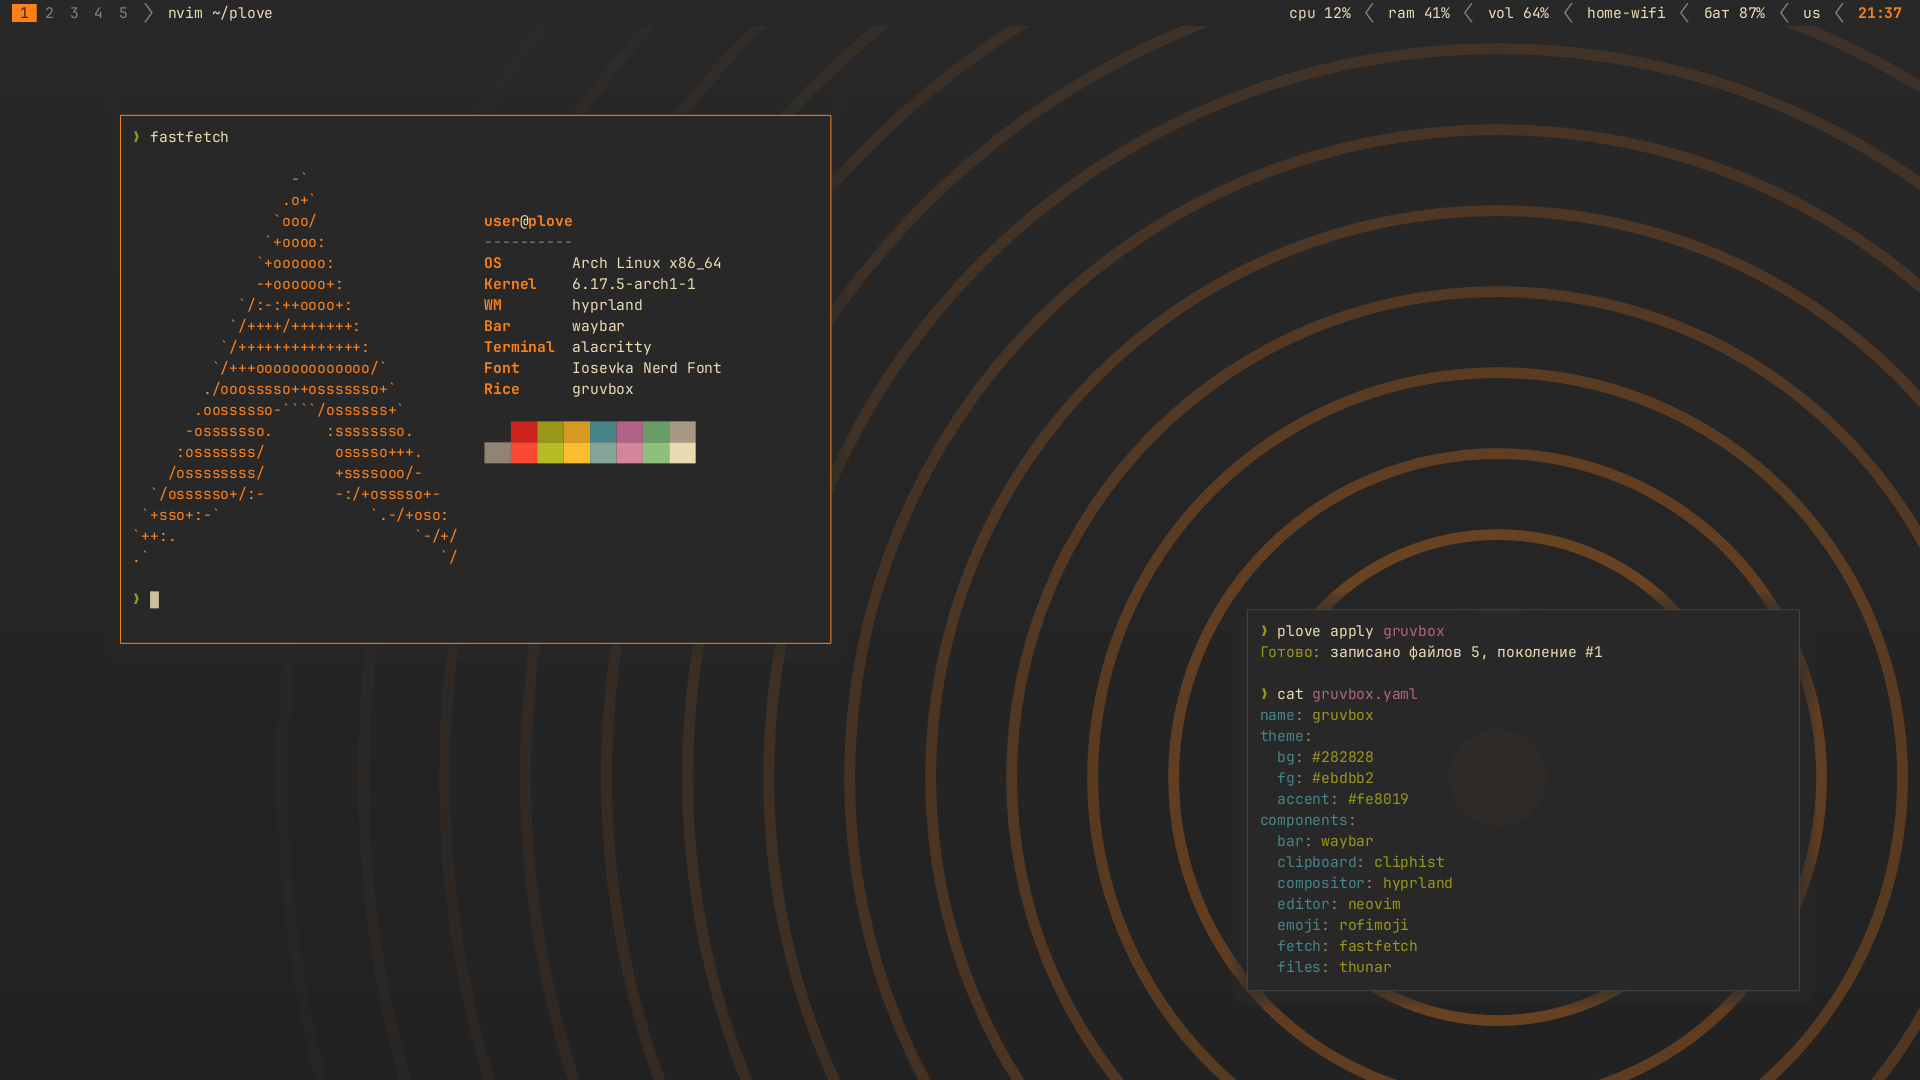
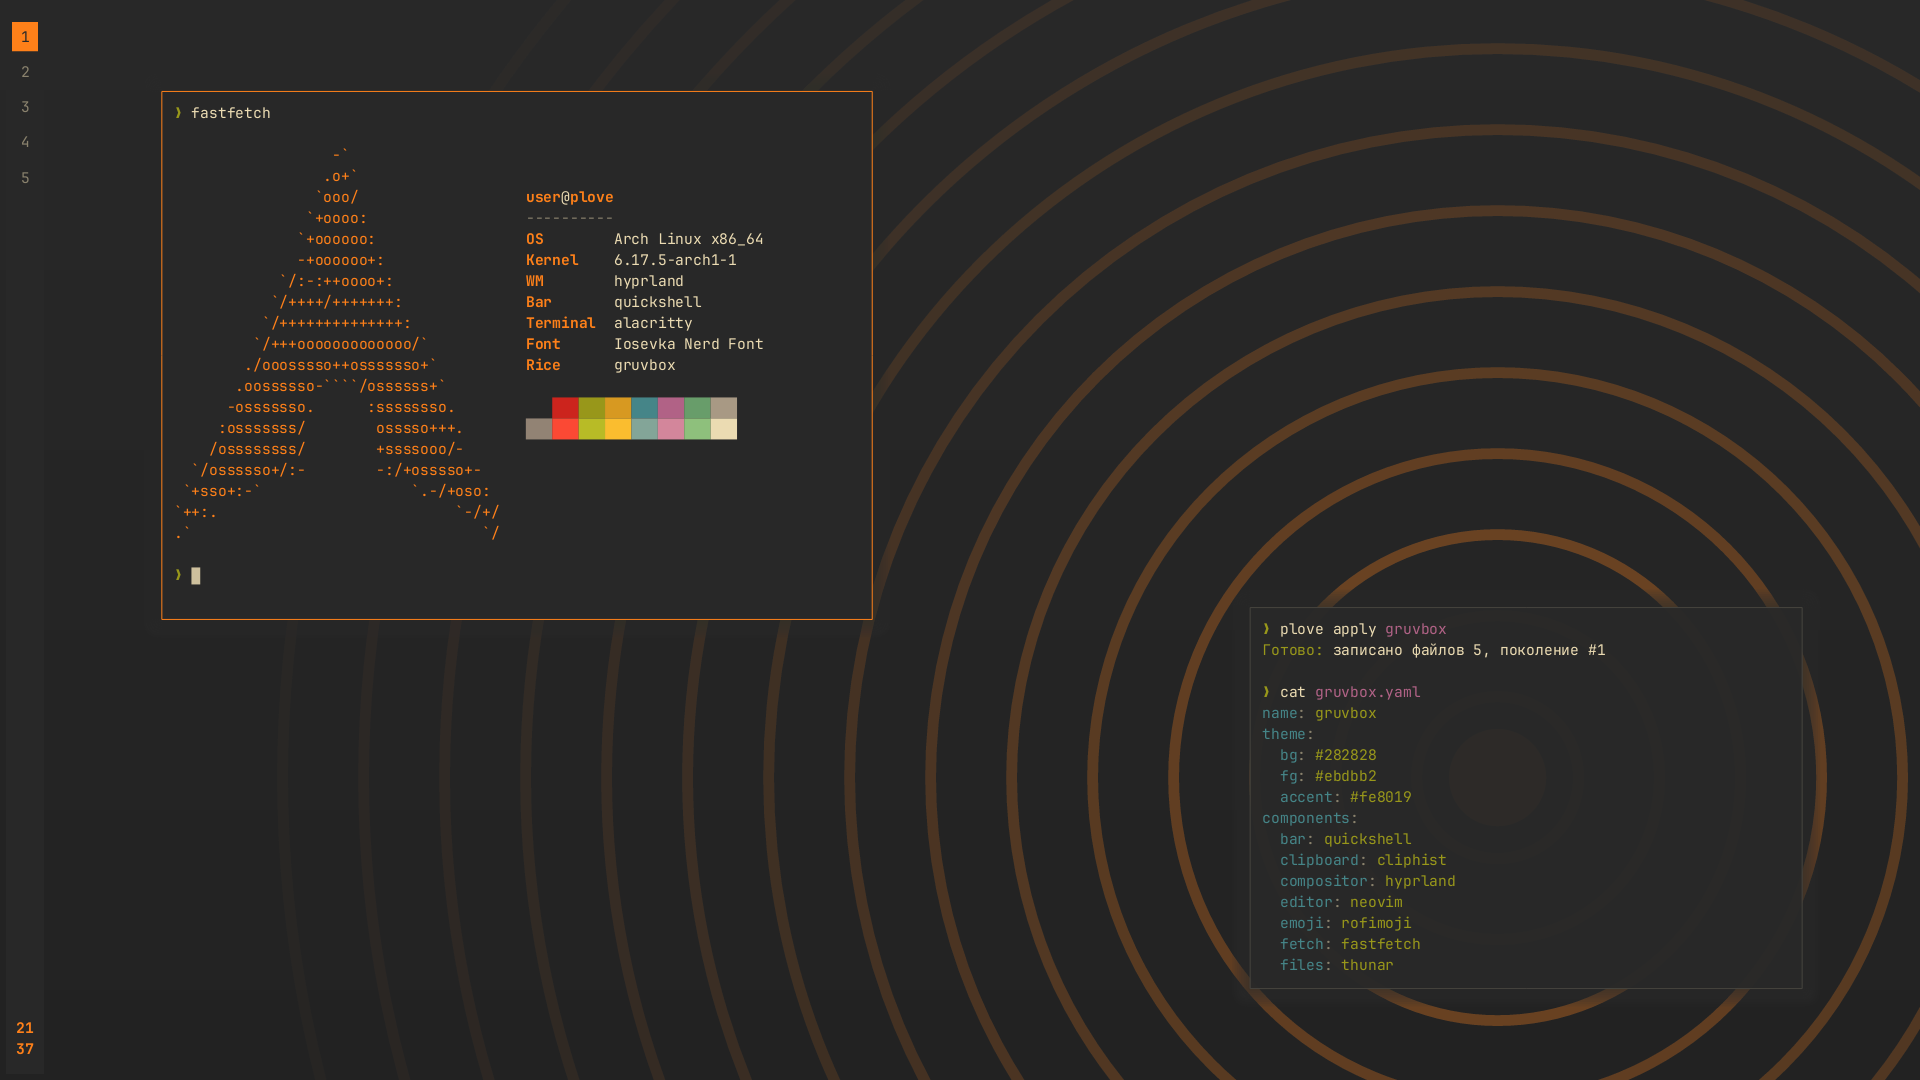
Quickshell — панель по умолчанию
Готовые райсы и райсы из своей картинки берут bar: quickshell:
catppuccin-mocha — island, nord и tokyo-night — segments, gruvbox — rail.
Waybar остаётся запасным вариантом; его настройки в райсе без самой
панели больше не дают предупреждения (это запас, не опечатка).
Превью готовых райсов перерисованы.

diff --git a/crates/plove-tui/src/lib.rs b/crates/plove-tui/src/lib.rs
@@ -1505,16 +1505,20 @@ mod tests {
                 .iter()
                 .position(|p| p.role == "bar")
                 .unwrap();
-        // Варианты по алфавиту: quickshell, waybar.
-        settings.change(bar, false);
+        // В готовых райсах панель — Quickshell; tokyo-night — плашками.
         assert!(settings.quickshell());
+        assert_eq!(settings.rows()[1].1, "плашки у краёв");
         settings.change(1, true);
         settings.change(1, true);
         assert_eq!(settings.rows()[1].1, "островок по центру");
         settings.apply_to(&mut spec);
         assert_eq!(spec.components["bar"], "quickshell");
         assert_eq!(spec.overrides["quickshell"]["style"], "island");
-        plan::build(spec, &registry, &Env::sandbox(std::env::temp_dir())).unwrap();
+        plan::build(spec.clone(), &registry, &Env::sandbox(std::env::temp_dir())).unwrap();
+        // Обратно на Waybar: строка «Панель» снова выбирает сторону.
+        settings.change(bar, true);
+        assert!(!settings.quickshell());
+        assert_eq!(settings.rows()[1].1, "сверху");
     }
 
     /// Райс из картинки: строки подбора цветов пересчитывают палитру,
@@ -1597,7 +1601,7 @@ mod tests {
         let mut spec = presets::get("gruvbox").unwrap().unwrap();
         let mut settings = Settings::from_spec(&spec, &registry);
         settings.russian = true;
-        settings.position = 2;
+        settings.qs_style = 2;
         settings.style = [2, 2, 3, 3, 0, 1, 2];
         settings.apply_to(&mut spec);
         assert_eq!(Settings::from_spec(&spec, &registry), settings);

diff --git a/crates/plove-core/src/plan.rs b/crates/plove-core/src/plan.rs
@@ -157,11 +157,12 @@ pub fn build(spec: RiceSpec, registry: &Registry, env: &Env) -> Result<Plan> {
             }
         }
     }
+    // Настройки модуля, которого сейчас нет в райсе (например, waybar при
+    // панели Quickshell), — запас на случай переключения, не ошибка.
+    // Предупреждаем только об опечатках: такого модуля нет вовсе.
     for id in spec.overrides.keys() {
-        if !modules.iter().any(|m| m.manifest.id == *id) {
-            warnings.push(format!(
-                "overrides для «{id}» не используются: такого модуля нет в components"
-            ));
+        if registry.get(id).is_none() {
+            warnings.push(format!("overrides для «{id}»: такого модуля нет"));
         }
     }
 

diff --git a/crates/plove-core/tests/end_to_end.rs b/crates/plove-core/tests/end_to_end.rs
@@ -12,8 +12,12 @@ use plove_core::spec::RiceSpec;
 use plove_core::state;
 use plove_core::system::Env;
 
+/// tokyo-night с панелью Waybar: многие тесты проверяют её конфиг.
+/// Панель Quickshell (по умолчанию в готовых райсах) — в своих тестах.
 fn example_spec() -> RiceSpec {
-    presets::get("tokyo-night").unwrap().unwrap()
+    let mut spec = presets::get("tokyo-night").unwrap().unwrap();
+    spec.components.insert("bar".into(), "waybar".into());
+    spec
 }
 
 #[test]

diff --git a/crates/plove-core/src/presets.rs b/crates/plove-core/src/presets.rs
@@ -54,7 +54,7 @@ theme:
   geometry: { gaps: 10, border: 2, radius: 10, opacity: 0.93 }
 components:
   compositor: hyprland
-  bar: waybar
+  bar: quickshell
   terminal: kitty
   wallpaper: swaybg
   launcher: fuzzel
@@ -74,6 +74,7 @@ components:
   editor: neovim
 overrides:
   hyprland: { kb_layout: "us,ru" }
+  quickshell: { style: island }
 "##;
 
 /// Райс вокруг своей картинки: палитра из неё, остальное из [`BLANK`].

diff --git a/README.md b/README.md
@@ -184,11 +184,11 @@ desktop:
 
 ## Панель на Quickshell
 
-Вместо Waybar панель может рисовать [Quickshell](https://quickshell.org) (пакет из extra, plove поставит его сам): плавные анимации, свои формы, шрифты по ролям. В мастере это строка «Программа панели», в файле райса:
+Панель рисует [Quickshell](https://quickshell.org) (пакет из extra, plove поставит его сам): плавные анимации, свои формы, шрифты по ролям. Это выбор по умолчанию в готовых райсах и в райсах из своей картинки; Waybar остаётся запасным вариантом. В мастере это строка «Программа панели», в файле райса:
 
 ```yaml
 components:
-  bar: quickshell        # waybar — как раньше, он и по умолчанию
+  bar: quickshell        # или waybar — прежняя панель
 overrides:
   quickshell:
     style: island        # segments | rail | island | dock
